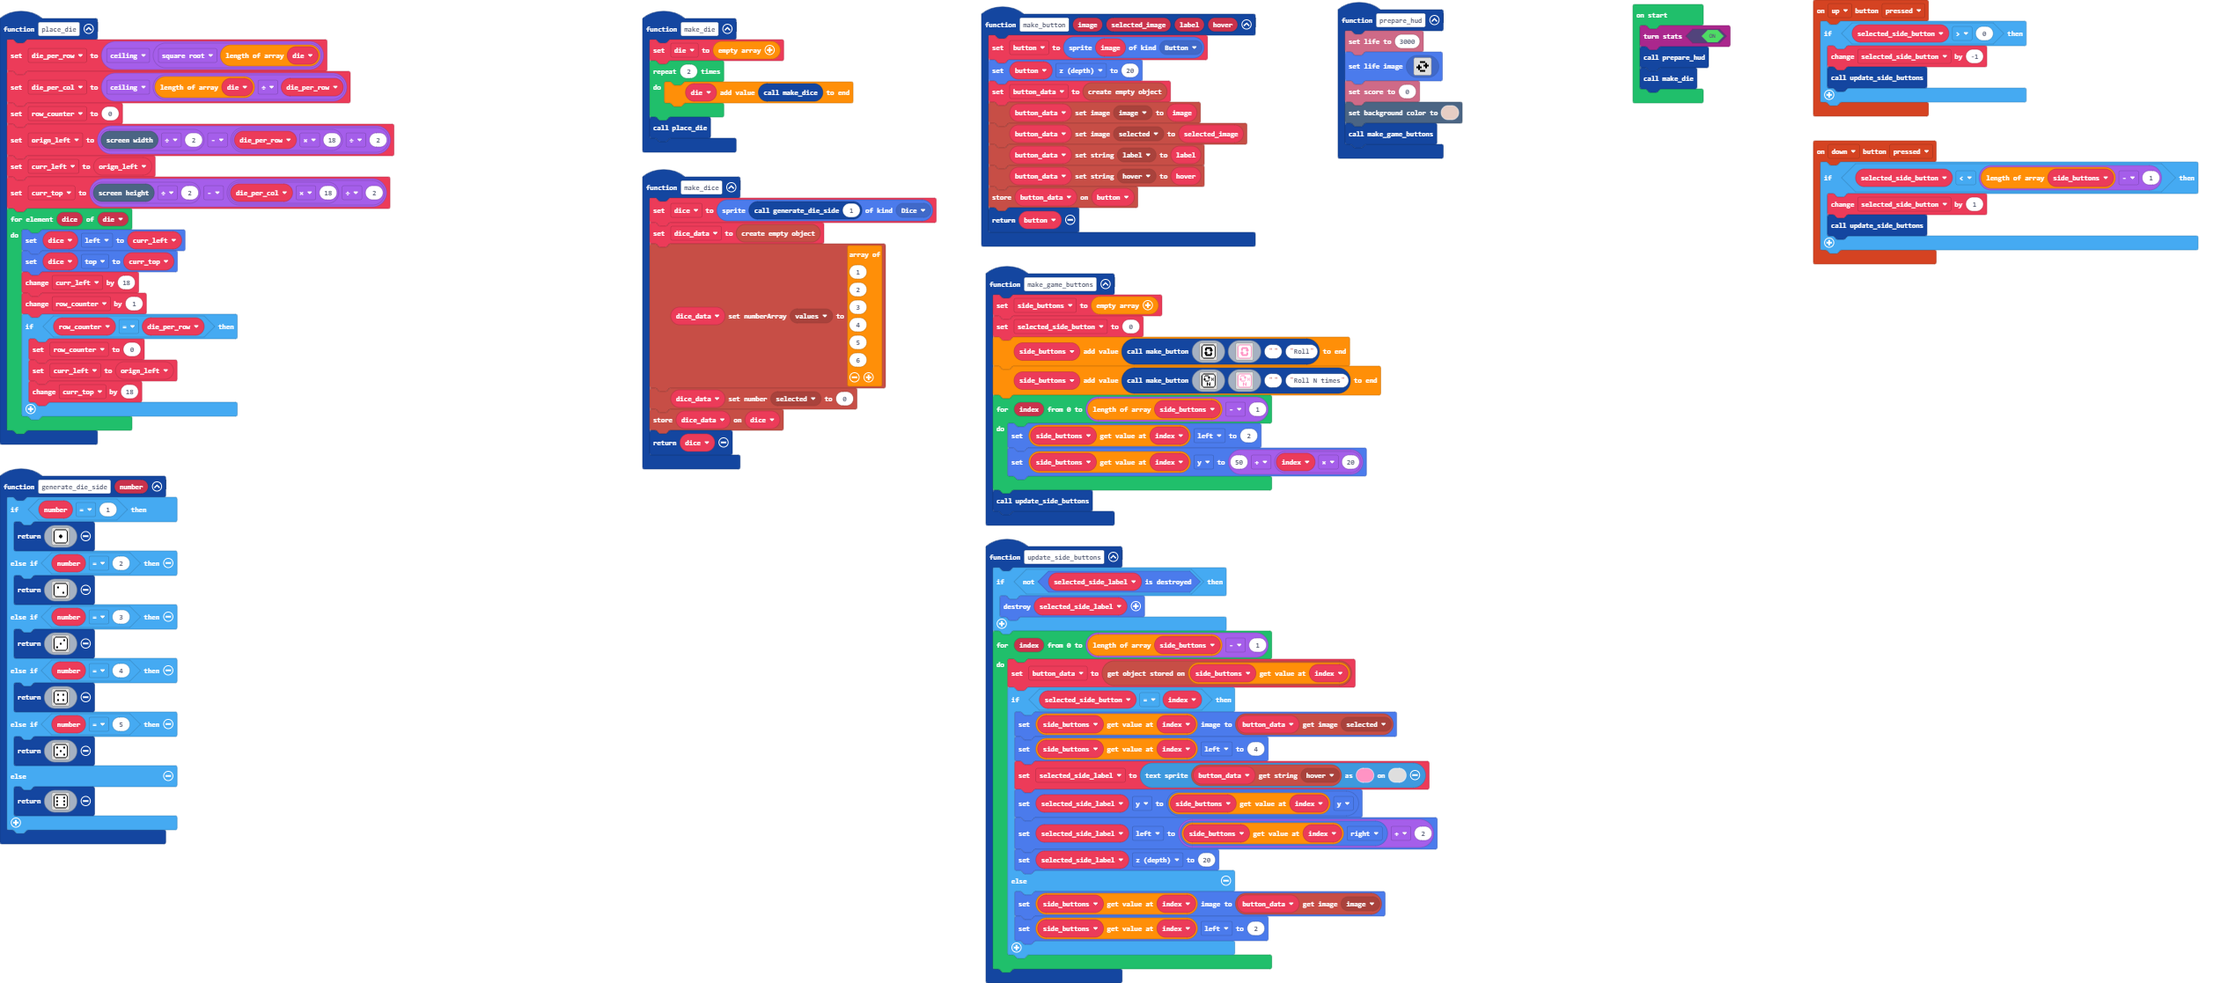
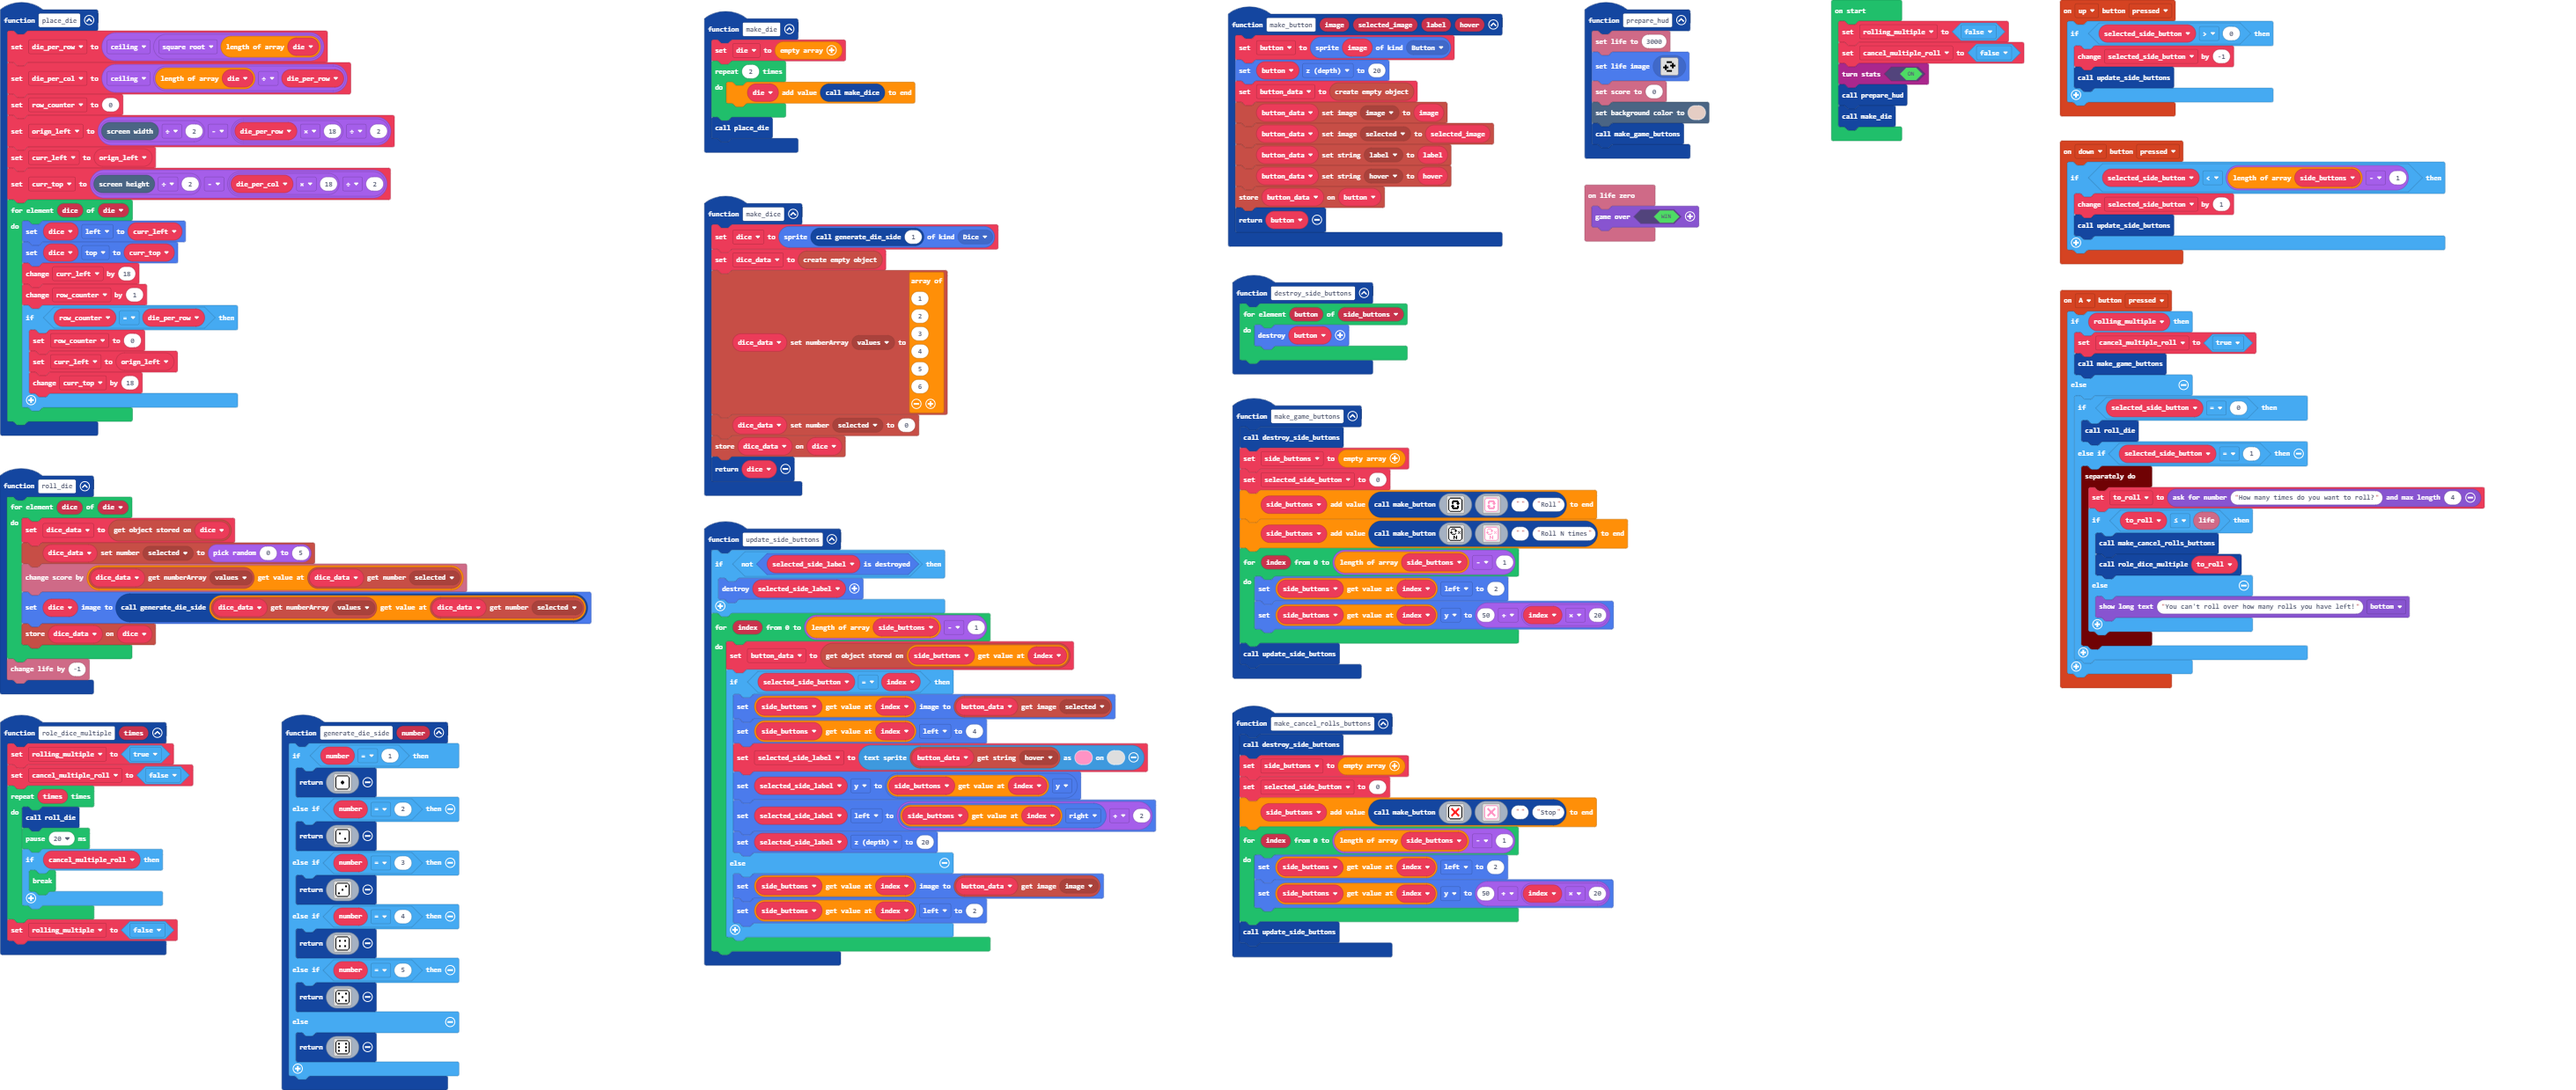
Can roll dice

diff --git a/main.ts b/main.ts
@@ -41,6 +41,48 @@ controller.up.onEvent(ControllerButtonEvent.Pressed, function () {
         update_side_buttons()
     }
 })
+function roll_die () {
+    for (let dice of die) {
+        dice_data = blockObject.getStoredObject(dice)
+        blockObject.setNumberProperty(dice_data, NumProp.selected, randint(0, 5))
+        info.changeScoreBy(blockObject.getNumberArrayProperty(dice_data, NumArrayProp.values)[blockObject.getNumberProperty(dice_data, NumProp.selected)])
+        dice.setImage(generate_die_side(blockObject.getNumberArrayProperty(dice_data, NumArrayProp.values)[blockObject.getNumberProperty(dice_data, NumProp.selected)]))
+        blockObject.storeOnSprite(dice_data, dice)
+    }
+    info.changeLifeBy(-1)
+}
+function role_dice_multiple (times: number) {
+    rolling_multiple = true
+    cancel_multiple_roll = false
+    for (let index = 0; index < times; index++) {
+        roll_die()
+        pause(20)
+        if (cancel_multiple_roll) {
+            break;
+        }
+    }
+    rolling_multiple = false
+}
+controller.A.onEvent(ControllerButtonEvent.Pressed, function () {
+    if (rolling_multiple) {
+        cancel_multiple_roll = true
+        make_game_buttons()
+    } else {
+        if (selected_side_button == 0) {
+            roll_die()
+        } else if (selected_side_button == 1) {
+            timer.background(function () {
+                to_roll = game.askForNumber("How many times do you want to roll?", 4)
+                if (to_roll <= info.life()) {
+                    make_cancel_rolls_buttons()
+                    role_dice_multiple(to_roll)
+                } else {
+                    game.showLongText("You can't roll over how many rolls you have left!", DialogLayout.Bottom)
+                }
+            })
+        }
+    }
+})
 function make_dice () {
     dice = sprites.create(generate_die_side(1), SpriteKind.Dice)
     dice_data = blockObject.create()
@@ -56,7 +98,19 @@ function make_dice () {
     blockObject.storeOnSprite(dice_data, dice)
     return dice
 }
+function make_cancel_rolls_buttons () {
+    destroy_side_buttons()
+    side_buttons = []
+    selected_side_button = 0
+    side_buttons.push(make_button(assets.image`cancel_rolls_button`, assets.image`cancel_rolls_selected_button`, "", "Stop"))
+    for (let index = 0; index <= side_buttons.length - 1; index++) {
+        side_buttons[index].left = 2
+        side_buttons[index].y = 50 + index * 20
+    }
+    update_side_buttons()
+}
 function make_game_buttons () {
+    destroy_side_buttons()
     side_buttons = []
     selected_side_button = 0
     side_buttons.push(make_button(assets.image`roll_button`, assets.image`roll_button_selected`, "", "Roll"))
@@ -92,6 +146,11 @@ function make_button (image2: Image, selected_image: Image, label: string, hover
     blockObject.storeOnSprite(button_data, button)
     return button
 }
+function destroy_side_buttons () {
+    for (let button of side_buttons) {
+        button.destroy()
+    }
+}
 function generate_die_side (number: number) {
     if (number == 1) {
         return assets.image`die_side_1`
@@ -112,6 +171,9 @@ controller.down.onEvent(ControllerButtonEvent.Pressed, function () {
         selected_side_button += 1
         update_side_buttons()
     }
+})
+info.onLifeZero(function () {
+    game.over(true)
 })
 function place_die () {
     die_per_row = Math.ceil(Math.sqrt(die.length))
@@ -139,13 +201,18 @@ let row_counter = 0
 let die_per_col = 0
 let die_per_row = 0
 let button: Sprite = null
-let die: Sprite[] = []
-let dice_data: blockObject.BlockObject = null
 let dice: Sprite = null
+let to_roll = 0
+let dice_data: blockObject.BlockObject = null
+let die: Sprite[] = []
 let selected_side_button = 0
 let button_data: blockObject.BlockObject = null
 let side_buttons: Sprite[] = []
 let selected_side_label: TextSprite = null
+let cancel_multiple_roll = false
+let rolling_multiple = false
+rolling_multiple = false
+cancel_multiple_roll = false
 stats.turnStats(true)
 prepare_hud()
 make_die()

diff --git a/images.g.ts b/images.g.ts
@@ -223,6 +223,44 @@ f 1 1 1 1 1 1 1 1 1 1 1 1 1 1 f
 . f 1 1 1 1 1 1 1 1 1 1 1 1 f . 
 . . f f f f f f f f f f f f . . 
 `;
+            case "image13":
+            case "cancel_rolls_button":return img`
+. . f f f f f f f f f f f f . . 
+. f 1 1 1 1 1 1 1 1 1 1 1 1 f . 
+f 1 1 1 1 1 1 1 1 1 1 1 1 1 1 f 
+f 1 1 1 2 1 1 1 1 1 1 2 1 1 1 f 
+f 1 1 2 2 2 1 1 1 1 2 2 2 1 1 f 
+f 1 1 1 2 2 2 1 1 2 2 2 1 1 1 f 
+f 1 1 1 1 2 2 2 2 2 2 1 1 1 1 f 
+f 1 1 1 1 1 2 2 2 2 1 1 1 1 1 f 
+f 1 1 1 1 1 2 2 2 2 1 1 1 1 1 f 
+f 1 1 1 1 2 2 2 2 2 2 1 1 1 1 f 
+f 1 1 1 2 2 2 1 1 2 2 2 1 1 1 f 
+f 1 1 2 2 2 1 1 1 1 2 2 2 1 1 f 
+f 1 1 1 2 1 1 1 1 1 1 2 1 1 1 f 
+f 1 1 1 1 1 1 1 1 1 1 1 1 1 1 f 
+. f 1 1 1 1 1 1 1 1 1 1 1 1 f . 
+. . f f f f f f f f f f f f . . 
+`;
+            case "image14":
+            case "cancel_rolls_selected_button":return img`
+. . 3 3 3 3 3 3 3 3 3 3 3 3 . . 
+. 3 1 1 1 1 1 1 1 1 1 1 1 1 3 . 
+3 1 1 1 1 1 1 1 1 1 1 1 1 1 1 3 
+3 1 1 1 3 1 1 1 1 1 1 3 1 1 1 3 
+3 1 1 3 3 3 1 1 1 1 3 3 3 1 1 3 
+3 1 1 1 3 3 3 1 1 3 3 3 1 1 1 3 
+3 1 1 1 1 3 3 3 3 3 3 1 1 1 1 3 
+3 1 1 1 1 1 3 3 3 3 1 1 1 1 1 3 
+3 1 1 1 1 1 3 3 3 3 1 1 1 1 1 3 
+3 1 1 1 1 3 3 3 3 3 3 1 1 1 1 3 
+3 1 1 1 3 3 3 1 1 3 3 3 1 1 1 3 
+3 1 1 3 3 3 1 1 1 1 3 3 3 1 1 3 
+3 1 1 1 3 1 1 1 1 1 1 3 1 1 1 3 
+3 1 1 1 1 1 1 1 1 1 1 1 1 1 1 3 
+. 3 1 1 1 1 1 1 1 1 1 1 1 1 3 . 
+. . 3 3 3 3 3 3 3 3 3 3 3 3 . . 
+`;
         }
         return null;
     })
